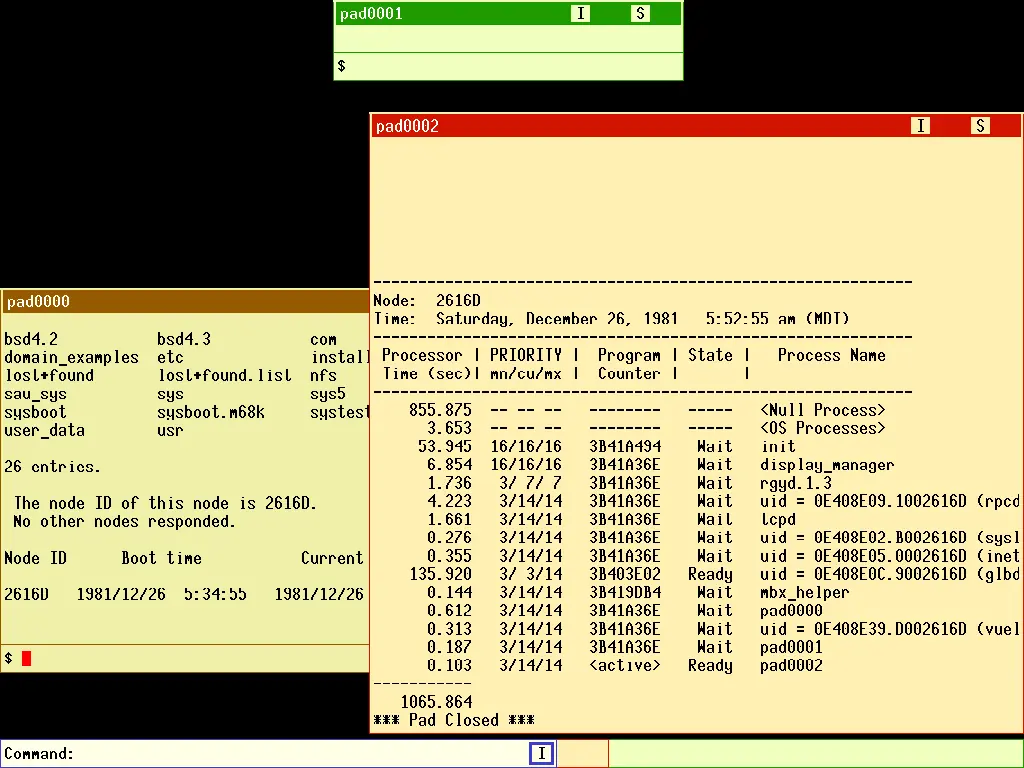
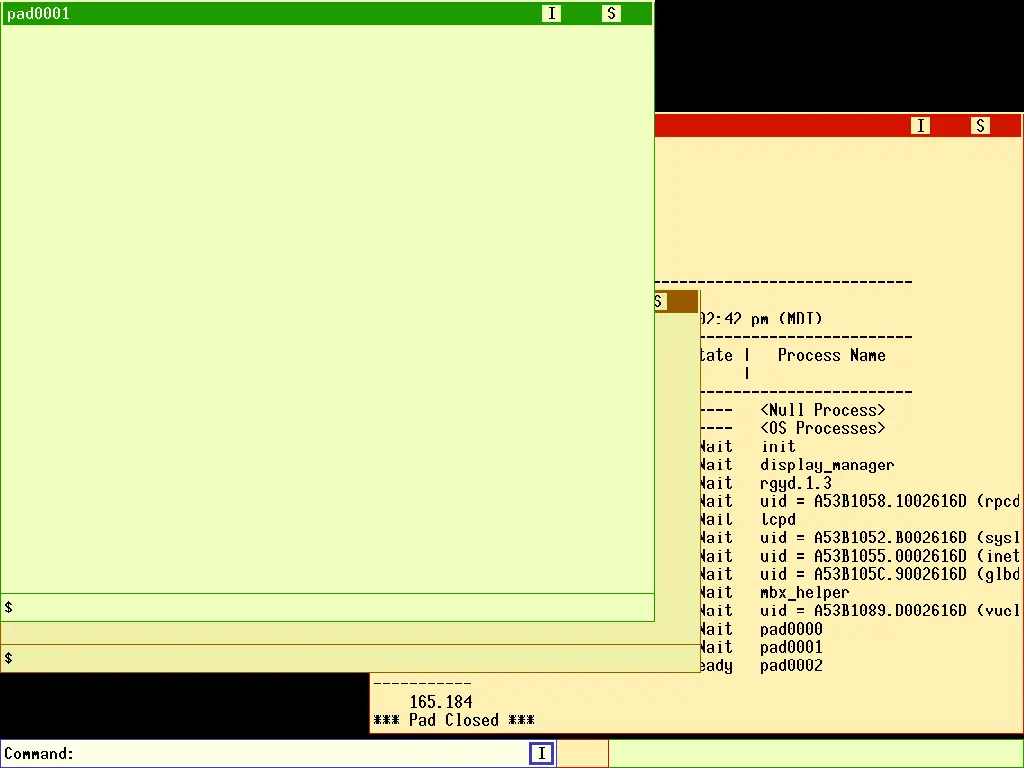
domainos: the hero is the desktop the station actually hands a visitor, and the clock reads 2003 not 1981
Two corrections found by loading the baked golden myself:

- The poster hero was a frame from an earlier session whose window layout the
  shipped golden does not have. The hero is now the station's real rest state,
  with the richer shell-pad frame kept as the second image and captioned as what
  a visitor gets by typing.
- The checkpoint stream re-answered CALENDAR while composing the disk, so the
  guest clock reads 2003-01-10, not the 1981 the first attempt produced. Every
  doc that repeated 1981 is corrected.

And the finding behind that re-answer, which nobody had written down: the
CALENDAR answer is satisfied against REAL host time, so a composed station disk
goes stale and refuses a cold boot again days later. A running station never
cold-boots, so this bites only a rebuild -- and it is the first thing to suspect
when a fresh build will not boot.

Claude-Session: https://claude.ai/code/session_01EmVDgDrxjFKehDC7B9h7sV

diff --git a/docs/lab/DOMAINOS-WAVE.md b/docs/lab/DOMAINOS-WAVE.md
@@ -74,8 +74,14 @@ What works: boot the disk ONCE in Service mode (`apollo_config` mask 1 value 0)
 and run `EX CALENDAR`, answering `W`, `N`, `Y` → "Done." That disk then boots
 Normal mode straight through to the DM. `tiles/domainos.sh` does it.
 
-**Cosmetic consequence, still open:** the guest clock reads 1981-12-26, which is
-visible in the process display and therefore in the poster hero.
+**The disk has a shelf life.** The CALENDAR answer satisfies the check against
+*real host time*, so a composed station disk goes stale — the checkpoint stream
+found the wave's own post-CALENDAR disk refusing a cold boot again a day later
+and had to re-run the compose step. It does not affect a running station, which
+never cold-boots (it starts from the golden), but `tiles/domainos.sh` must be
+re-run whenever the disk is rebuilt, and a stale disk is the first thing to
+suspect if a fresh build will not boot. The shipped disk's clock reads
+**2003-01-10**, which is what the process display shows.
 
 ### 3. The MD prompt needs Return pressed first
 
@@ -184,9 +190,11 @@ station it should be run *before* the checkpoint is designed.
 ## Still open
 
 1. **Pointer** — §6 above, with the exact next step.
-2. **The guest clock reads 1981-12-26** (§2). Cosmetic, visible in the process
-   display. Fixable by choosing the date when CALENDAR is answered during the
-   tile build, which nobody has tried.
+2. **The composed disk's CALENDAR answer expires against real host time** (§2),
+   so `tiles/domainos.sh` has to be re-run to rebuild the disk. Nobody has
+   tried pinning the answered date deliberately, which would also let the
+   exhibit show a chosen year rather than whatever the compose run produced
+   (currently 2003-01-10).
 3. **Retronet** — the 3C505 is in the device set and Domain/OS has TCP/IP, but
    the tap NIC is not wired and there is no era browser for this platform. The
    web plane is a research question, not a task; the IM plane is n/a. Rule 15:

diff --git a/registry/posters/domainos.md b/registry/posters/domainos.md
@@ -4,8 +4,11 @@ subtitle: 1989 · a DN3500, the Display Manager, and a network that was one file
 hero: /posters/domainos/desktop.webp
 images:
   - src: /posters/domainos/desktop.webp
-    alt: Three overlapping text windows with coloured title bars on a black screen, above a command line reading Command
-    caption: The Display Manager. Each window is a "pad" with a transcript above and an input line below; the bar along the bottom is the DM's own command line. The listing on the left is the root of a Domain/OS disk — bsd4.3 and sys5.3 sitting side by side is the point of the release.
+    alt: Two large text windows with coloured title bars on a black screen, above a command line reading Command
+    caption: The Display Manager, as the station hands it to you. Each window is a "pad" — a scrolling transcript with its own input line underneath — and the bar along the bottom is the DM's own command line, where `cp /com/sh` opens another shell and `cp /com/pst` the process display on the right.
+  - src: /posters/domainos/shellpads.webp
+    alt: Three overlapping pads, one listing directory names in four columns and a table of network nodes
+    caption: A few commands later. `/com/ld /` lists the root of a Domain/OS disk — bsd4.3 and sys5.3 sitting side by side is the whole point of the SR10 release — and `/com/lcnode` answers with this machine's node ID and the network it can see.
   - src: /posters/domainos/selftest.webp
     alt: White text on black listing the DN3500's power-on tests, ending SELF TESTS PASSED
     caption: The boot PROM talks the whole way through the power-on sequence — keyboard, CPU, each memory module, both winchester channels, then the network controller. A 1989 workstation told you what it was doing while it did it.

diff --git a/docs/guests/domainos.md b/docs/guests/domainos.md
@@ -126,7 +126,7 @@ Three walls this station cost, and their fixes:
    the two-digit year) satisfies it. What works: boot ONCE in Service mode
    and run `EX CALENDAR`, answering `W`, `N`, `Y`; that disk then boots
    Normal mode to the Display Manager. A visible consequence remains open:
-   the guest's clock reads **1981-12-26**, which shows in the process
+   the guest's clock reads **2003-01-10**, which shows in the process
    display — a cosmetic item, not fixed this session.
 3. **The MD prompt does baud recognition on the first Return.** Apollo's MD
    boot-monitor drops characters typed before it has synced; press Return
@@ -164,7 +164,7 @@ does not visibly change the screen.
 ## §Open
 - **Pointer**: proven root cause, proven unlock mechanism, not yet
   implemented — see §Pointer above.
-- **Clock**: the guest's calendar reads 1981-12-26 (a side effect of the
+- **Clock**: the guest's calendar reads 2003-01-10 (a side effect of the
   CALENDAR-halt fix in §Traps) and shows in the process display; cosmetic,
   not fixed this session.
 - **Checkpoint**: mechanism settled, `mame-apollo-savestate.patch` required;

diff --git a/registry/release-notes/facts/2026-09-13/domainos.md b/registry/release-notes/facts/2026-09-13/domainos.md
@@ -25,7 +25,8 @@ keyboard-only station, like `apple2e` and `samcoupe`.
    check that no amount of clock-faking satisfies (Domain/OS windows a
    spoofed year through its own two-digit logic). The fix is a one-time
    Service-mode `EX CALENDAR` run baked into the disk; a visible side
-   effect is that the guest's clock now reads 1981.
+   effect is that the guest's clock reads 2003, and that a rebuilt
+   disk's answer goes stale against real time and has to be redone.
 3. The pointer doesn't move, and it's now understood exactly why: the
    emulated keyboard is a 1200-baud serial device that only reports the
    mouse once the operating system has taken it out of "compatibility
